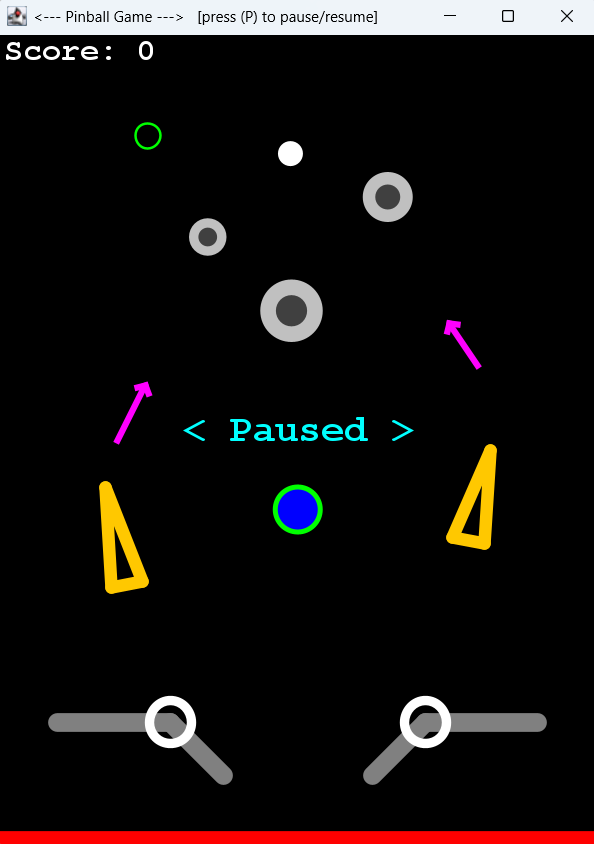
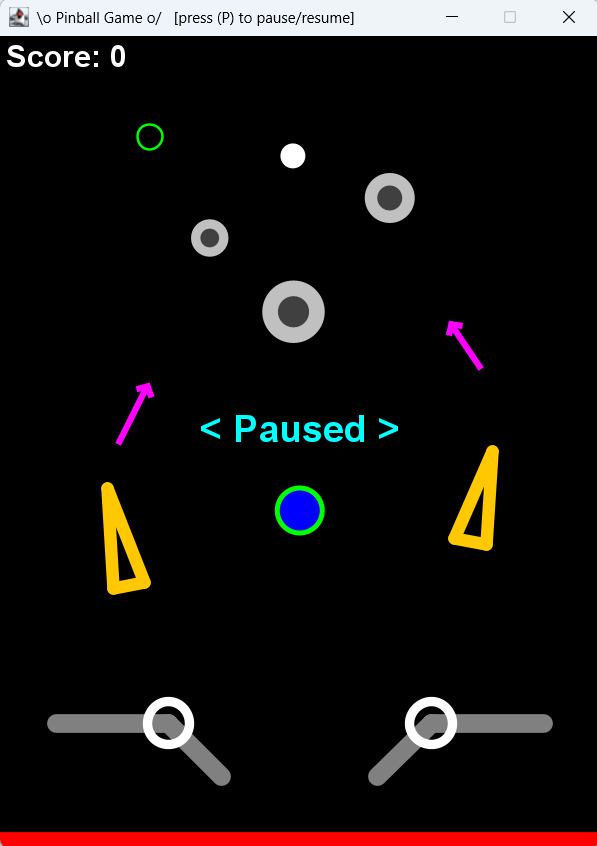
Adjustments and new image for readme file.

diff --git a/pinball/GamePanel.java b/pinball/GamePanel.java
@@ -21,19 +21,24 @@ class GamePanel extends JPanel implements Runnable, KeyListener {
     private long now;
     private boolean paused = false;
     private boolean gameOver = false;
-    private Font scoreFont = new Font("Monospaced", Font.BOLD, 25);
+    private Font scoreFont = new Font("Dialog", Font.BOLD, 25);
     private int score = 0;
     private BasicStroke basicStroke = new BasicStroke(15);
     private Line2D.Double lava = new Line2D.Double(0, HEIGHT - 5, WIDTH, HEIGHT - 5);
     
     // Game objects
+    
     private Ball ball;
     private double startX = WIDTH / 2;
     private double startY = HEIGHT / 7;
     private double ballRadius = 10;
+    
     private ArrayList<Bumper> bumpers = new ArrayList<Bumper>();
+    
     private Portal portal;
+    
     private Arrow arrowLeft, arrowRight;
+    
     private Slingshot slingLeft, slingLeftExtension1, slingLeftExtension2;
     private double slFirstVertexX = 0.2 * WIDTH - 10;
     private double slFirstVertexY = 0.65 * HEIGHT - 60;
@@ -41,6 +46,7 @@ class GamePanel extends JPanel implements Runnable, KeyListener {
     private double slSecondVertexY = 0.65 * HEIGHT + 15;
     private double slThirdVertexX = 0.2 * WIDTH - 5;
     private double slThirdVertexY = 0.65 * HEIGHT + 20;
+    
     private Slingshot slingRight, slingRightExtension1, slingRightExtension2;
     private double srFirstVertexX = 0.8 * WIDTH - 20;
     private double srFirstVertexY = 0.65 * HEIGHT - 20;
@@ -48,13 +54,15 @@ class GamePanel extends JPanel implements Runnable, KeyListener {
     private double srSecondVertexY = 0.65 * HEIGHT - 90;
     private double srThirdVertexX = 0.8 * WIDTH + 5;
     private double srThirdVertexY = 0.65 * HEIGHT - 15;
+    
     private Flipper flipperLeft, flipperRight;
     
+    // Panel constructor is called by run method of frame. 
 	GamePanel() {
 		setPreferredSize(new Dimension(WIDTH, HEIGHT));
 		setBackground(Color.BLACK);
         setFocusable(true);
-        gameThread = new Thread(this); // The title overlay appears until the thread is started. 
+        gameThread = new Thread(this);
         initObjects();
         addKeyListener(this);
 	}
@@ -110,7 +118,7 @@ class GamePanel extends JPanel implements Runnable, KeyListener {
     public void keyReleased(KeyEvent e) {
     	
     	switch (e.getKeyCode()) {
-	    	case KeyEvent.VK_S: // Execute this.run() on the game thread. 
+	    	case KeyEvent.VK_S: // The title overlay appears until the thread is started. 
 				if (!running) gameThread.start();
 				break;
 	    	case KeyEvent.VK_R: // reset the game
@@ -236,7 +244,7 @@ class GamePanel extends JPanel implements Runnable, KeyListener {
 		  // Draw the score. 
 	      g2.setColor(Color.WHITE);
 	      g2.setFont(scoreFont);
-	      g2.drawString("Score: " + score, 5, 20);
+	      g2.drawString("Score: " + score, 5, 25);
 		  
 		  // Draw the game objects. 
 	      
@@ -282,21 +290,21 @@ class GamePanel extends JPanel implements Runnable, KeyListener {
 	// Method to draw the title overlay with instructions. 
     private void drawTitle(Graphics2D g2) {
         
-        g2.setFont(new Font("Monospaced", Font.BOLD, 45));
+        g2.setFont(new Font("Dialog", Font.BOLD, 45));
         
-        String title = "< Pinball Game >";
+        String title = "Pinball Game";
         int titleWidth = g2.getFontMetrics().stringWidth(title);
         
         g2.drawString(title, (WIDTH - titleWidth) / 2, HEIGHT / 4 + 40);
         
-        g2.setFont(new Font("Monospaced", Font.BOLD, 25));
+        g2.setFont(new Font("Dialog", Font.BOLD, 25));
         
         String prompt = "press (S) to start";
         int promptWidth = g2.getFontMetrics().stringWidth(prompt);
         
         g2.drawString(prompt, (WIDTH - promptWidth) / 2, HEIGHT / 2 + 20);
         
-        g2.setFont(new Font("Monospaced", Font.BOLD, 20));
+        g2.setFont(new Font("Dialog", Font.BOLD, 20));
         FontMetrics fm = g2.getFontMetrics();
         
         String instructionL1 = "use the left/right arrow key";
@@ -310,7 +318,7 @@ class GamePanel extends JPanel implements Runnable, KeyListener {
     // Method for the pauses. 
     private void drawPaused(Graphics2D g2) {
     	
-    	g2.setFont(new Font("Monospaced", Font.BOLD, 30));
+    	g2.setFont(new Font("Dialog", Font.BOLD, 30));
   	  	
   	  	String pausedStr = "< Paused >";
   	  	int pausedStrWidth = g2.getFontMetrics().stringWidth(pausedStr);
@@ -322,14 +330,14 @@ class GamePanel extends JPanel implements Runnable, KeyListener {
     // Method for the game over state. 
     private void drawGameOver(Graphics2D g2) {
     	
-    	g2.setFont(new Font("Monospaced", Font.BOLD, 35));
+    	g2.setFont(new Font("Dialog", Font.BOLD, 35));
   	  	
-  	  	String gameOverStr = "< Game Over >";
+  	  	String gameOverStr = "Game Over";
   	  	int gameOverStrWidth = g2.getFontMetrics().stringWidth(gameOverStr);
   	  	
   	  	g2.drawString(gameOverStr, (WIDTH - gameOverStrWidth) / 2, HEIGHT / 2 - 20);
   	  	
-  	  	g2.setFont(new Font("Monospaced", Font.BOLD, 25));
+  	  	g2.setFont(new Font("Dialog", Font.BOLD, 25));
         
         String prompt = "press (R) to restart";
         int promptWidth = g2.getFontMetrics().stringWidth(prompt);

diff --git a/pinball/GameFrame.java b/pinball/GameFrame.java
@@ -6,8 +6,9 @@ import javax.swing.SwingUtilities;
 class GameFrame extends JFrame implements Runnable {
 	
 	private GameFrame() {
-	    setTitle("<--- Pinball Game --->   [press (P) to pause/resume]");
+	    setTitle("\\o Pinball Game o/   [press (P) to pause/resume]");
 	    setDefaultCloseOperation(EXIT_ON_CLOSE);
+	    setResizable(false);
 	}
 	
 	public void run() {
